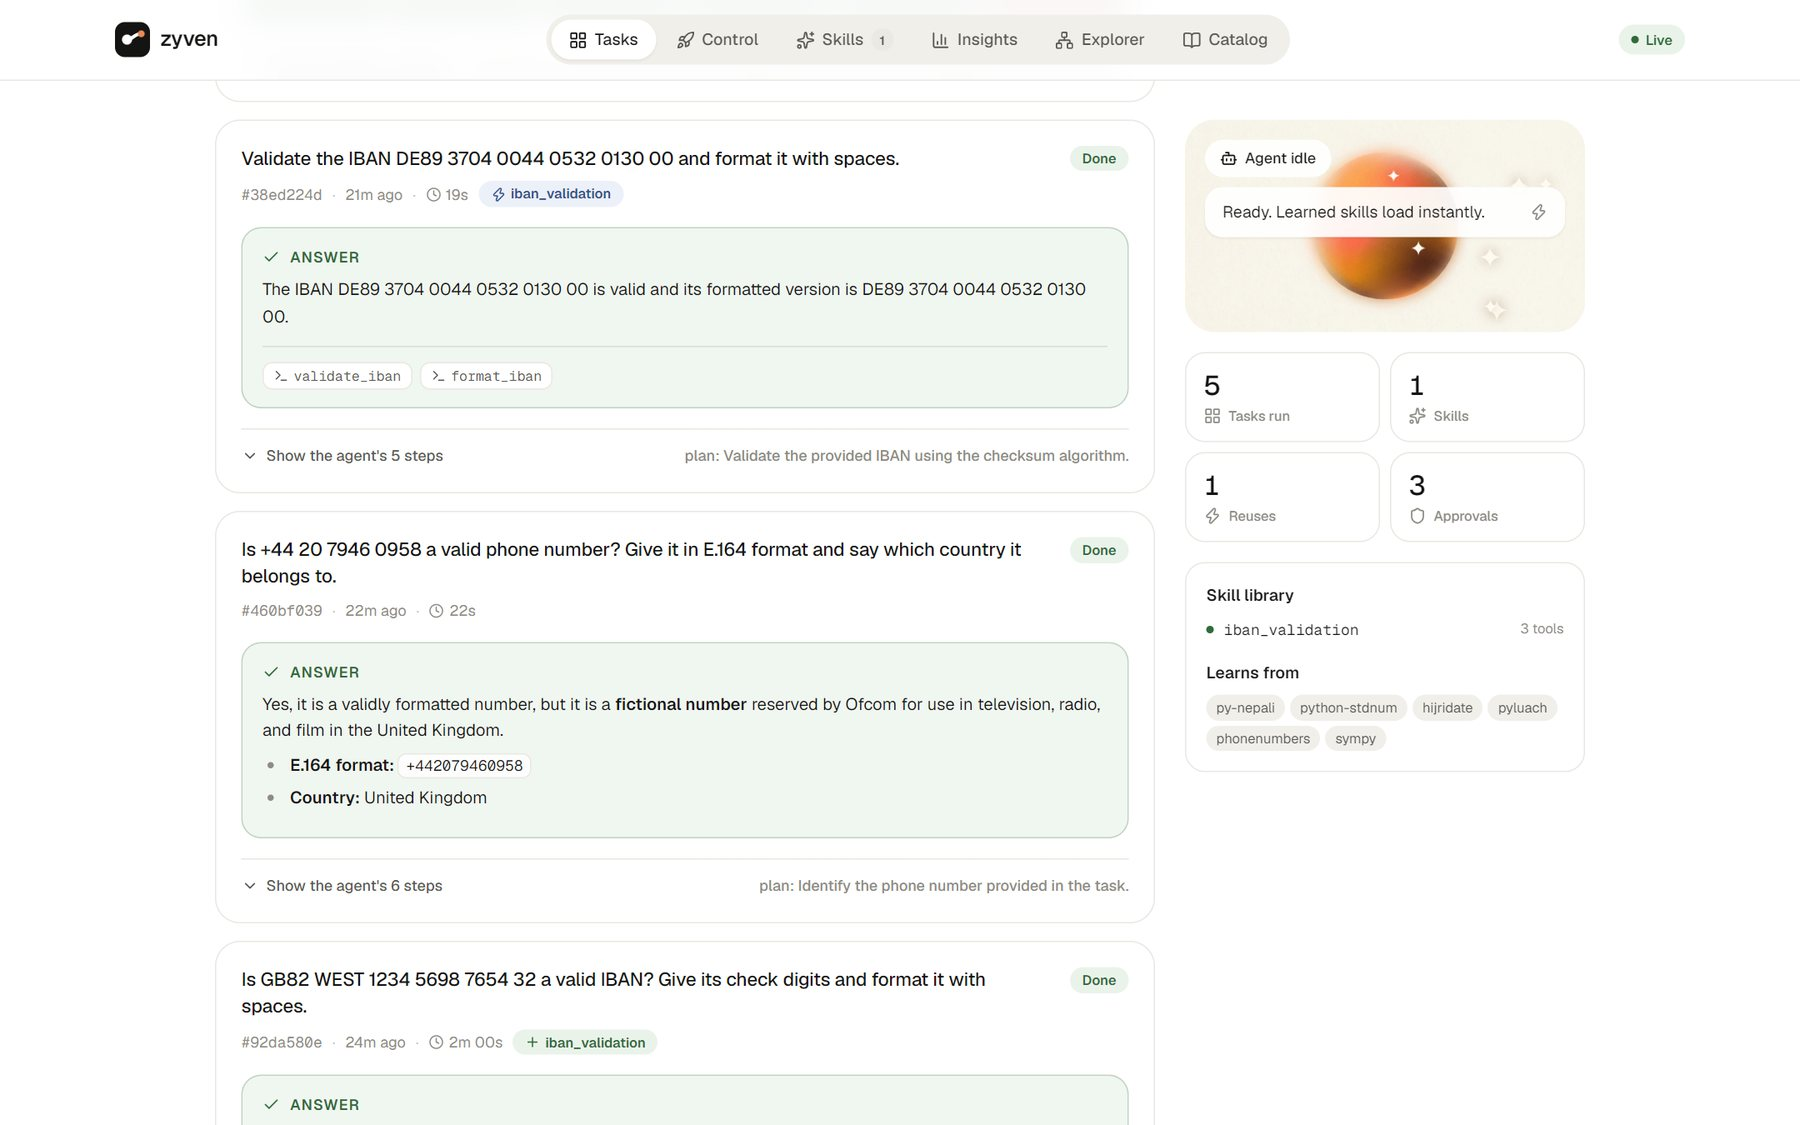
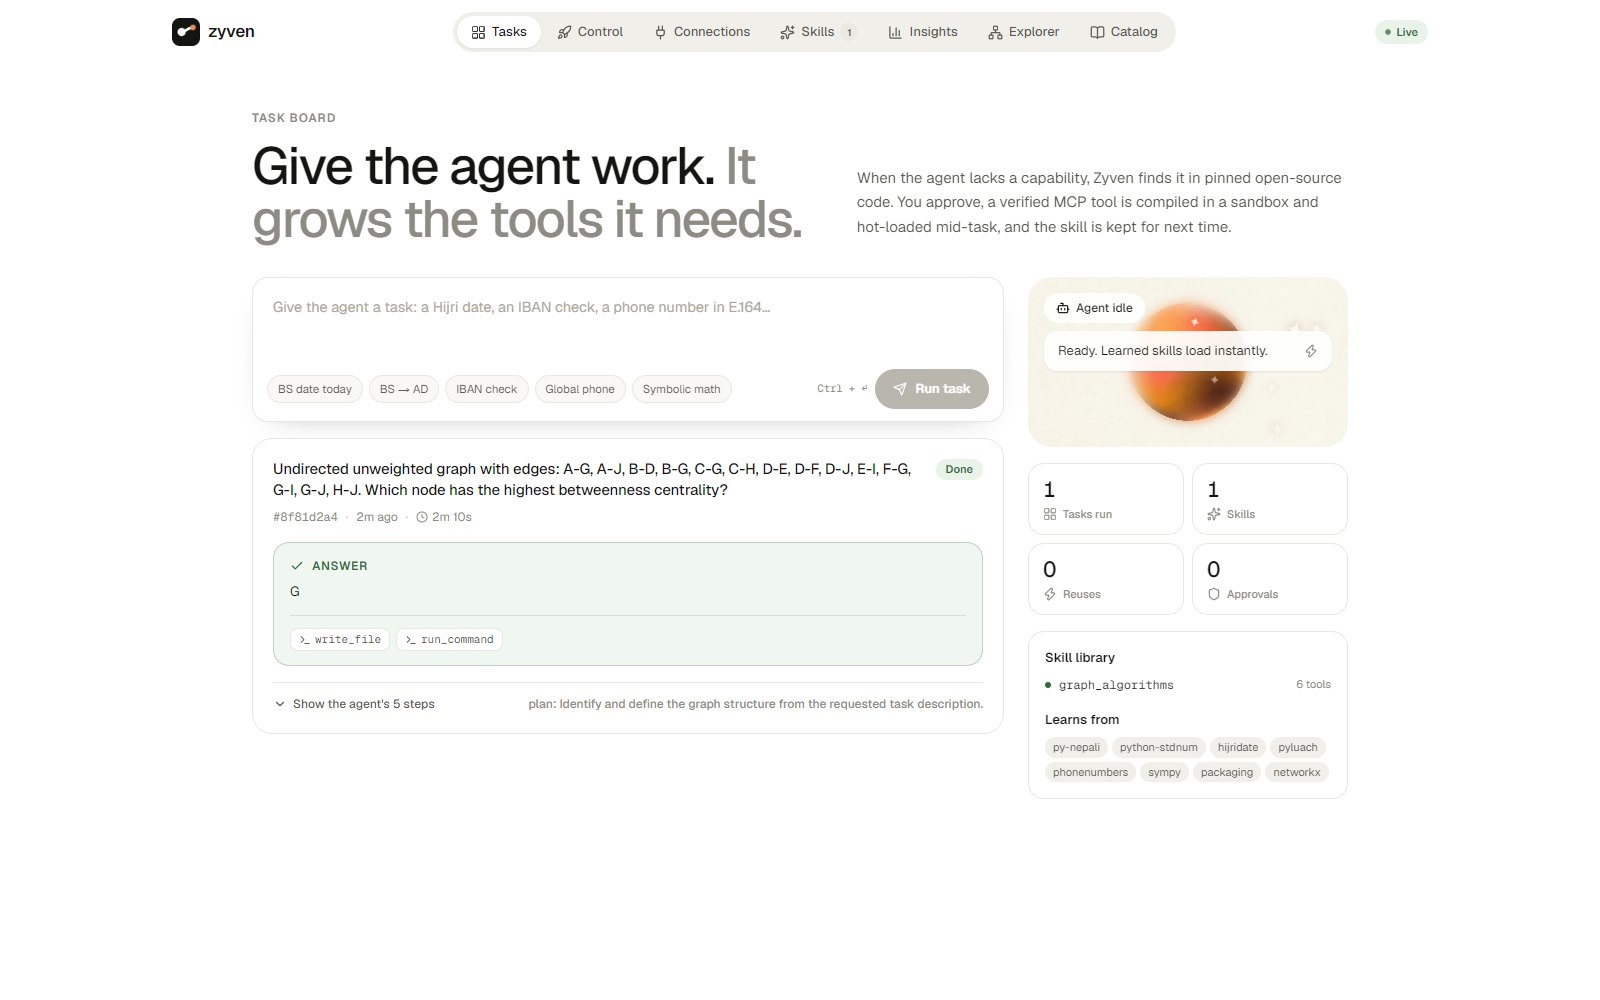
README: current screenshots (board, skills, catalog, control center, connections, explorer), Qoder runtime, all eight catalog repos, demo video done (#52)

diff --git a/README.md b/README.md
@@ -39,6 +39,8 @@ Zyven does that step automatically, and refuses to hand over anything it can't p
 
 ![The six sandbox gates for the IBAN skill](docs/screenshots/showcase-verify.jpg)
 
+*The IBAN skill's gates, from an earlier build of the app.*
+
 ## Results
 
 Every run uses the open-weight model `gemma-4-26b-a4b-it`, with the same tasks and budget in each condition. Ground
@@ -114,11 +116,19 @@ on a clean board (`zyven board --board-dir …`) where every model call was made
 `gemma-4-26b-a4b-it`.
 
 **Task board.** Give the agent a task. When it lacks a capability it proposes a pinned repository, waits for your
-approval, compiles in the sandbox and finishes the task with the new tool. Below, the first IBAN task compiled a skill
-from python-stdnum (366 modules) in 2 minutes. The second reused it and finished in 19 seconds. A UK phone number the
-model could answer on its own needed no tool at all.
+approval, compiles in the sandbox and finishes the task with the new tool. Anything risky waits for your click.
 
 ![Task board](docs/screenshots/board.jpg)
+
+*The current board, with the verified `graph_algorithms` skill in its library. The agent can also solve a task with its
+own code in a sandbox, as it did here, so whether it goes to the catalog is the model's judgement (see
+`LIMITATIONS.md`).*
+
+An earlier run on the same board showed the compile-then-reuse loop: the first IBAN task compiled a skill from
+python-stdnum (366 modules) in 2 minutes, the second reused it and finished in 19 seconds, and a UK phone number the
+model could answer on its own needed no tool at all.
+
+![Compile once, reuse later (an earlier build of the board)](docs/screenshots/board-compile-reuse.jpg)
 
 **A finished task.** The answer, the tool calls that produced it, the skill learned from the repository, and the six
 sandbox gates it passed. Answers render as Markdown, with maths when there is any.
@@ -132,18 +142,32 @@ disagreeing with the library on a UK mobile number. Two repairs didn't fix it, s
 
 ![Insights dashboard](docs/screenshots/insights.jpg)
 
-**Repository explorer.** What could a repository become? Here it is sympy, 425,281 lines in 882 modules, analysed
-statically in about 100 seconds. It shows the funnel from every symbol to MCP-able tool candidates, and an
-interactive module graph: zoom, pan, drag, search, and click a module to see what it imports and what imports it.
+*From an earlier run on an earlier build; the page still looks like this with newer data.*
 
-![Module graph with a module selected](docs/screenshots/graph.jpg)
+**Repository explorer.** What could a repository become? Here it is networkx: 102,639 lines in 309 modules, 9,707 tests
+in 505 files, and 2,247 symbols, of which an estimated 1,454 could become MCP tools. It is static analysis only, so
+nothing is executed. The interactive module graph lets you zoom, pan, drag, search, and click a module to see what it
+imports and what imports it.
+
+![networkx in the repository explorer](docs/screenshots/graph.jpg)
 
 **Skill library.** Every verified skill is kept with its tools, call health, provenance (repository and pinned
 commit) and exactly which of the six gates it passed, so the next task can reuse it.
 
+![Skills](docs/screenshots/skills.jpg)
+
+**Catalog.** The pinned repositories Zyven may compile from: reviewer-curated, commit-pinned, licenses recorded, and
+nothing outside the list is ever fetched. Adding one is an entry in `catalog/repos.json` and a `zyven sync`.
+
+![Catalog](docs/screenshots/catalog.jpg)
+
 **Control center, connections and the hub (optional extras).** Beyond the task board, the Control center runs work
 on other runtimes and shows each run live (output, tool calls, token use, the files it changed). Everything below is
 off until you switch it on, and none of it is used for any result in this README.
+
+![Control center: a Qoder CLI run that calls a Zyven hub tool](docs/screenshots/control.jpg)
+
+*A run on the Qoder CLI runtime, given Zyven's tools through the hub. It called the verified graph tool and answered G.*
 
 | Runtime | What it is | Checked |
 |---|---|---|
@@ -152,6 +176,7 @@ off until you switch it on, and none of it is used for any result in this README
 | GitHub | create a repository or issue with `gh`, after you approve the exact command | unit tests only; no real `gh` call yet |
 | Codex | `codex exec` headless, in Codex's own sandbox | live, on Windows |
 | OpenCode | `opencode run` headless, locked to its task folder | live, on Windows |
+| Qoder CLI | `qodercli -p` headless, built-in tools limited to read and edit, hub tools through a config file | live, on Windows (Qwen3.8-Flash; model host not verified) |
 | Claude Code | `claude -p` headless | unit tests only; not logged in on the dev machine |
 | Antigravity | `agy` print mode | experimental: its headless mode printed one line and then waited, so runs stop after 2 minutes of silence |
 
@@ -159,11 +184,14 @@ The coding agents use whatever provider each program is signed in to (for exampl
 free hosted models OpenCode offers. They are labelled as not verified open-weight. You turn each one on, and pick a
 model, from the Control center page.
 
-- **Connections.** Connect any MCP server by URL or local command, or sign in through a service's own page (OAuth with
+- **Connections.** (screenshot below) Connect any MCP server by URL or local command, or sign in through a service's own page (OAuth with
   PKCE; tokens stay in a local file that the API never returns and that refreshes silently). Test a connection to see
   its real tools. A tool its server does not mark read-only asks for your approval before it runs. Notion's hosted
-  server was tested live (sign-in, a read, and a write that was denied); Gmail and Slack's hosted servers have
-  templates but were not run against the real services.
+  server was tested live (sign-in, a read, and a write that was denied). Google Docs, Gmail and Slack's hosted
+  servers have templates; Google Docs connected and listed its tools, while Gmail and Slack were not run against the
+  real services (Slack refuses automatic app registration and needs its own app).
+
+![Connections: every tool marked read-only or "asks"](docs/screenshots/connections.jpg)
 - **The Zyven hub.** A task started on Codex or OpenCode can be given "Zyven's tools": the board serves an MCP endpoint
   (`/hub/mcp`) with a short-lived token per run, offering your enabled connections and your verified skills. The agent
   needs no model key from Zyven. Anything that changes something raises an approval card with its exact arguments, and
@@ -294,12 +322,13 @@ npm run dev                                   # http://localhost:3000, proxies /
 | `zyven/memory/` | skill library: verified skills, provenance, call health |
 | `zyven/connections/` | connected MCP servers: local secret store, OAuth sign-in, tool listing, templates |
 | `zyven/hub/` | the Zyven hub: connected services and verified skills offered to coding agents over MCP |
-| `zyven/orchestrator/` | board server: tasks, approvals, SSE, explorer API; Control center, runtime adapters (Docker, GitHub, Codex, OpenCode, Claude Code, Antigravity), local-only guard |
+| `zyven/orchestrator/` | board server: tasks, approvals, SSE, explorer API; Control center, runtime adapters (Docker, GitHub, Codex, OpenCode, Qoder CLI, Claude Code, Antigravity), local-only guard |
 | `web/` | Next.js site and board UI (static export served by the board) |
 | `toolkit/` | hand-written reference skill (baseline) |
 | `eval/` | task suites, before/after runner, results |
 | `catalog/repos.json` | pinned source repositories, commits and licenses |
 | `scripts/` | offline checks: open-weight model policy, control-center smoke test |
+| `docs/` | demo script, narration text, animated explainer slides (`docs/demo/`), screenshots |
 
 ## Models and sources
 
@@ -313,6 +342,9 @@ local Ollama, with automatic failover to a backup host.
 | [simlist/pyluach](https://github.com/simlist/pyluach) | `c1ffe42` | MIT | wrapped (imported, not copied) |
 | [daviddrysdale/python-phonenumbers](https://github.com/daviddrysdale/python-phonenumbers) | `e921470` | Apache-2.0 | wrapped (imported, not copied) |
 | [opensource-nepal/py-nepali](https://github.com/opensource-nepal/py-nepali) | `3ff1947` | MIT | wrapped (imported, not copied) |
+| [sympy/sympy](https://github.com/sympy/sympy) | `16fa855` | BSD-3-Clause | wrapped (imported, not copied) |
+| [pypa/packaging](https://github.com/pypa/packaging) | `929fd4b` | Apache-2.0 OR BSD-2-Clause | wrapped (imported, not copied) |
+| [networkx/networkx](https://github.com/networkx/networkx) | `49ca229` | BSD-3-Clause | wrapped (imported, not copied) |
 
 The pinned list lives in `catalog/repos.json`.
 
@@ -343,12 +375,13 @@ The capability compiler, the self-extending agent and the board work end to end.
 - [#9](https://github.com/VirajSawad1021/Zyven/issues/9) Interface lint: measure the effect of the merged related-facts rule
 - [#24](https://github.com/VirajSawad1021/Zyven/issues/24) Evaluation: add a model + Python interpreter baseline
 - [#25](https://github.com/VirajSawad1021/Zyven/issues/25) Evaluation: held-out suite and run-to-run variance
-- [#26](https://github.com/VirajSawad1021/Zyven/issues/26) Catalog: real-world libraries beyond pure calculators
-- [#27](https://github.com/VirajSawad1021/Zyven/issues/27) 60-second demo video of the compile-then-reuse flow
+- [#26](https://github.com/VirajSawad1021/Zyven/issues/26) Catalog: real-world libraries beyond pure calculators (packaging and networkx added; more to come)
+- [#27](https://github.com/VirajSawad1021/Zyven/issues/27) Demo video: done, linked at the top of this README
 
 Known gaps in the optional extras: Claude Code and the GitHub connector have not been run against the real services;
 Antigravity's headless mode does not work on the development machine; Gmail and hosted Slack sign-in were not run
-against the real services; and everything was checked on Windows only. `LIMITATIONS.md` lists the trust assumptions.
+against the real services; the Qoder CLI runtime was checked with a Qwen model whose host and exact weights are not
+verified; and everything was checked on Windows only. `LIMITATIONS.md` lists the trust assumptions.
 
 ## License
 
